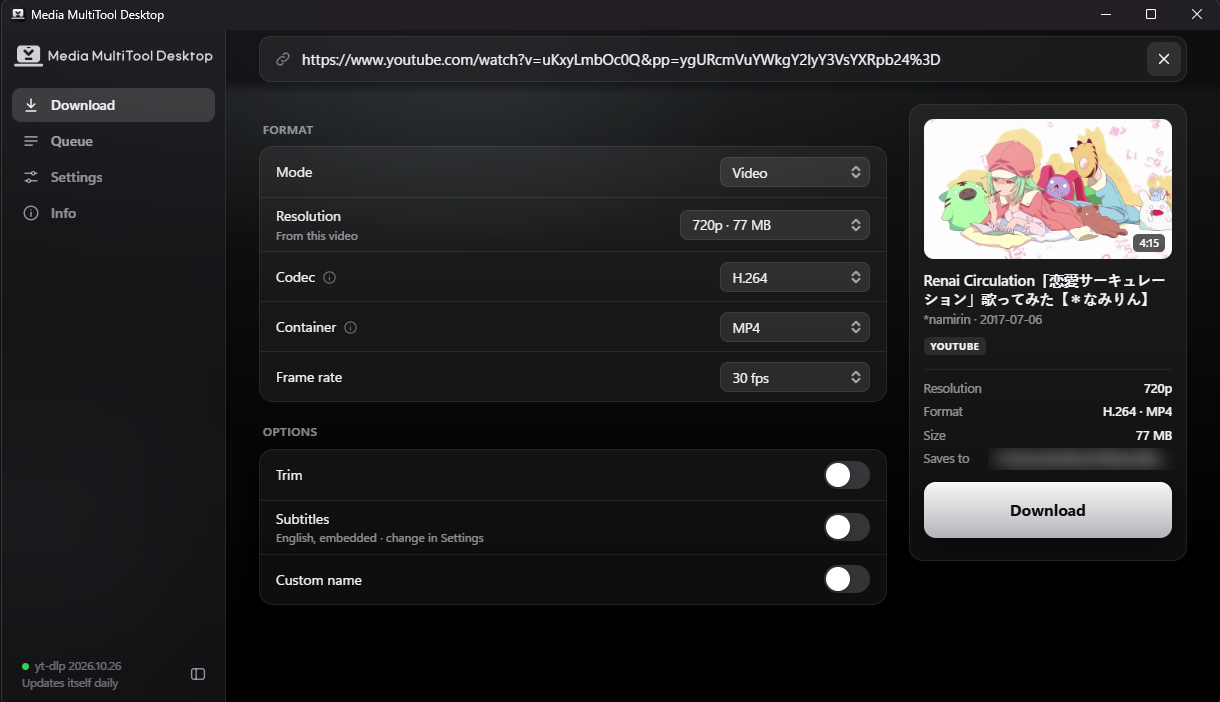
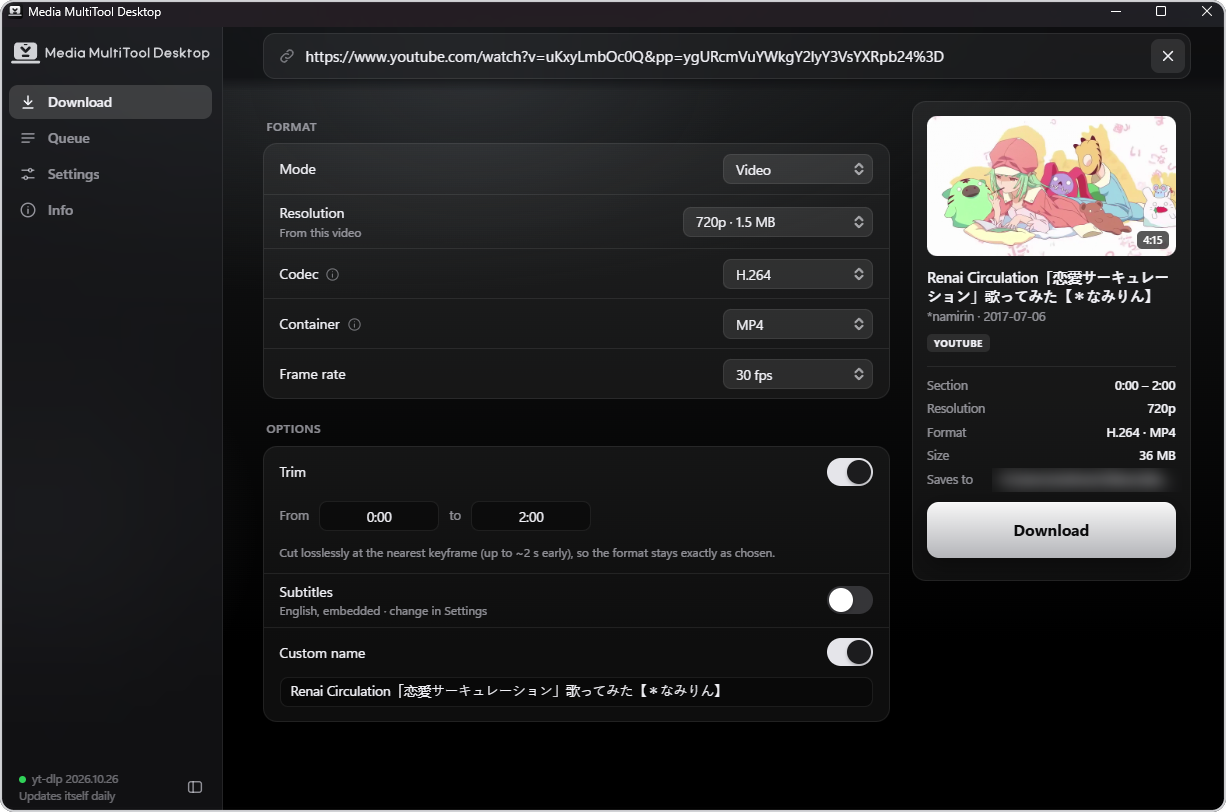
README: new Download screenshot, larger stacked screenshots with a light frame
The Windows user folder in the Download screenshot is blurred.

diff --git a/README.md b/README.md
@@ -12,12 +12,18 @@ A Windows desktop app for saving videos, audio and GIFs from [thousands of sites
 ## Screenshots
 
 <p align="center">
-  <img src="docs/screenshots/download.png" alt="The Download screen with a video loaded: format menus on the left, a summary and the Download button on the right" width="860">
+  <img src="docs/screenshots/download.png" alt="The Download screen with a video loaded: format menus and options on the left, a summary and the Download button on the right" width="820"><br>
+  <sub>Pick the exact format, trim, add subtitles or a custom name, and see what you'll get before you download.</sub>
 </p>
 
 <p align="center">
-  <img src="docs/screenshots/queue.png" alt="The Queue screen with a finished download in the history" width="425">
-  <img src="docs/screenshots/settings.png" alt="The Settings screen with the day and night switch" width="425">
+  <img src="docs/screenshots/queue.png" alt="The Queue screen with a finished download in the history" width="820"><br>
+  <sub>The queue and history: several downloads at once, with Show in Explorer, Open link again and Delete.</sub>
+</p>
+
+<p align="center">
+  <img src="docs/screenshots/settings.png" alt="The Settings screen with the day and night switch" width="820"><br>
+  <sub>Settings, with the day and night switch.</sub>
 </p>
 
 ## What it does
